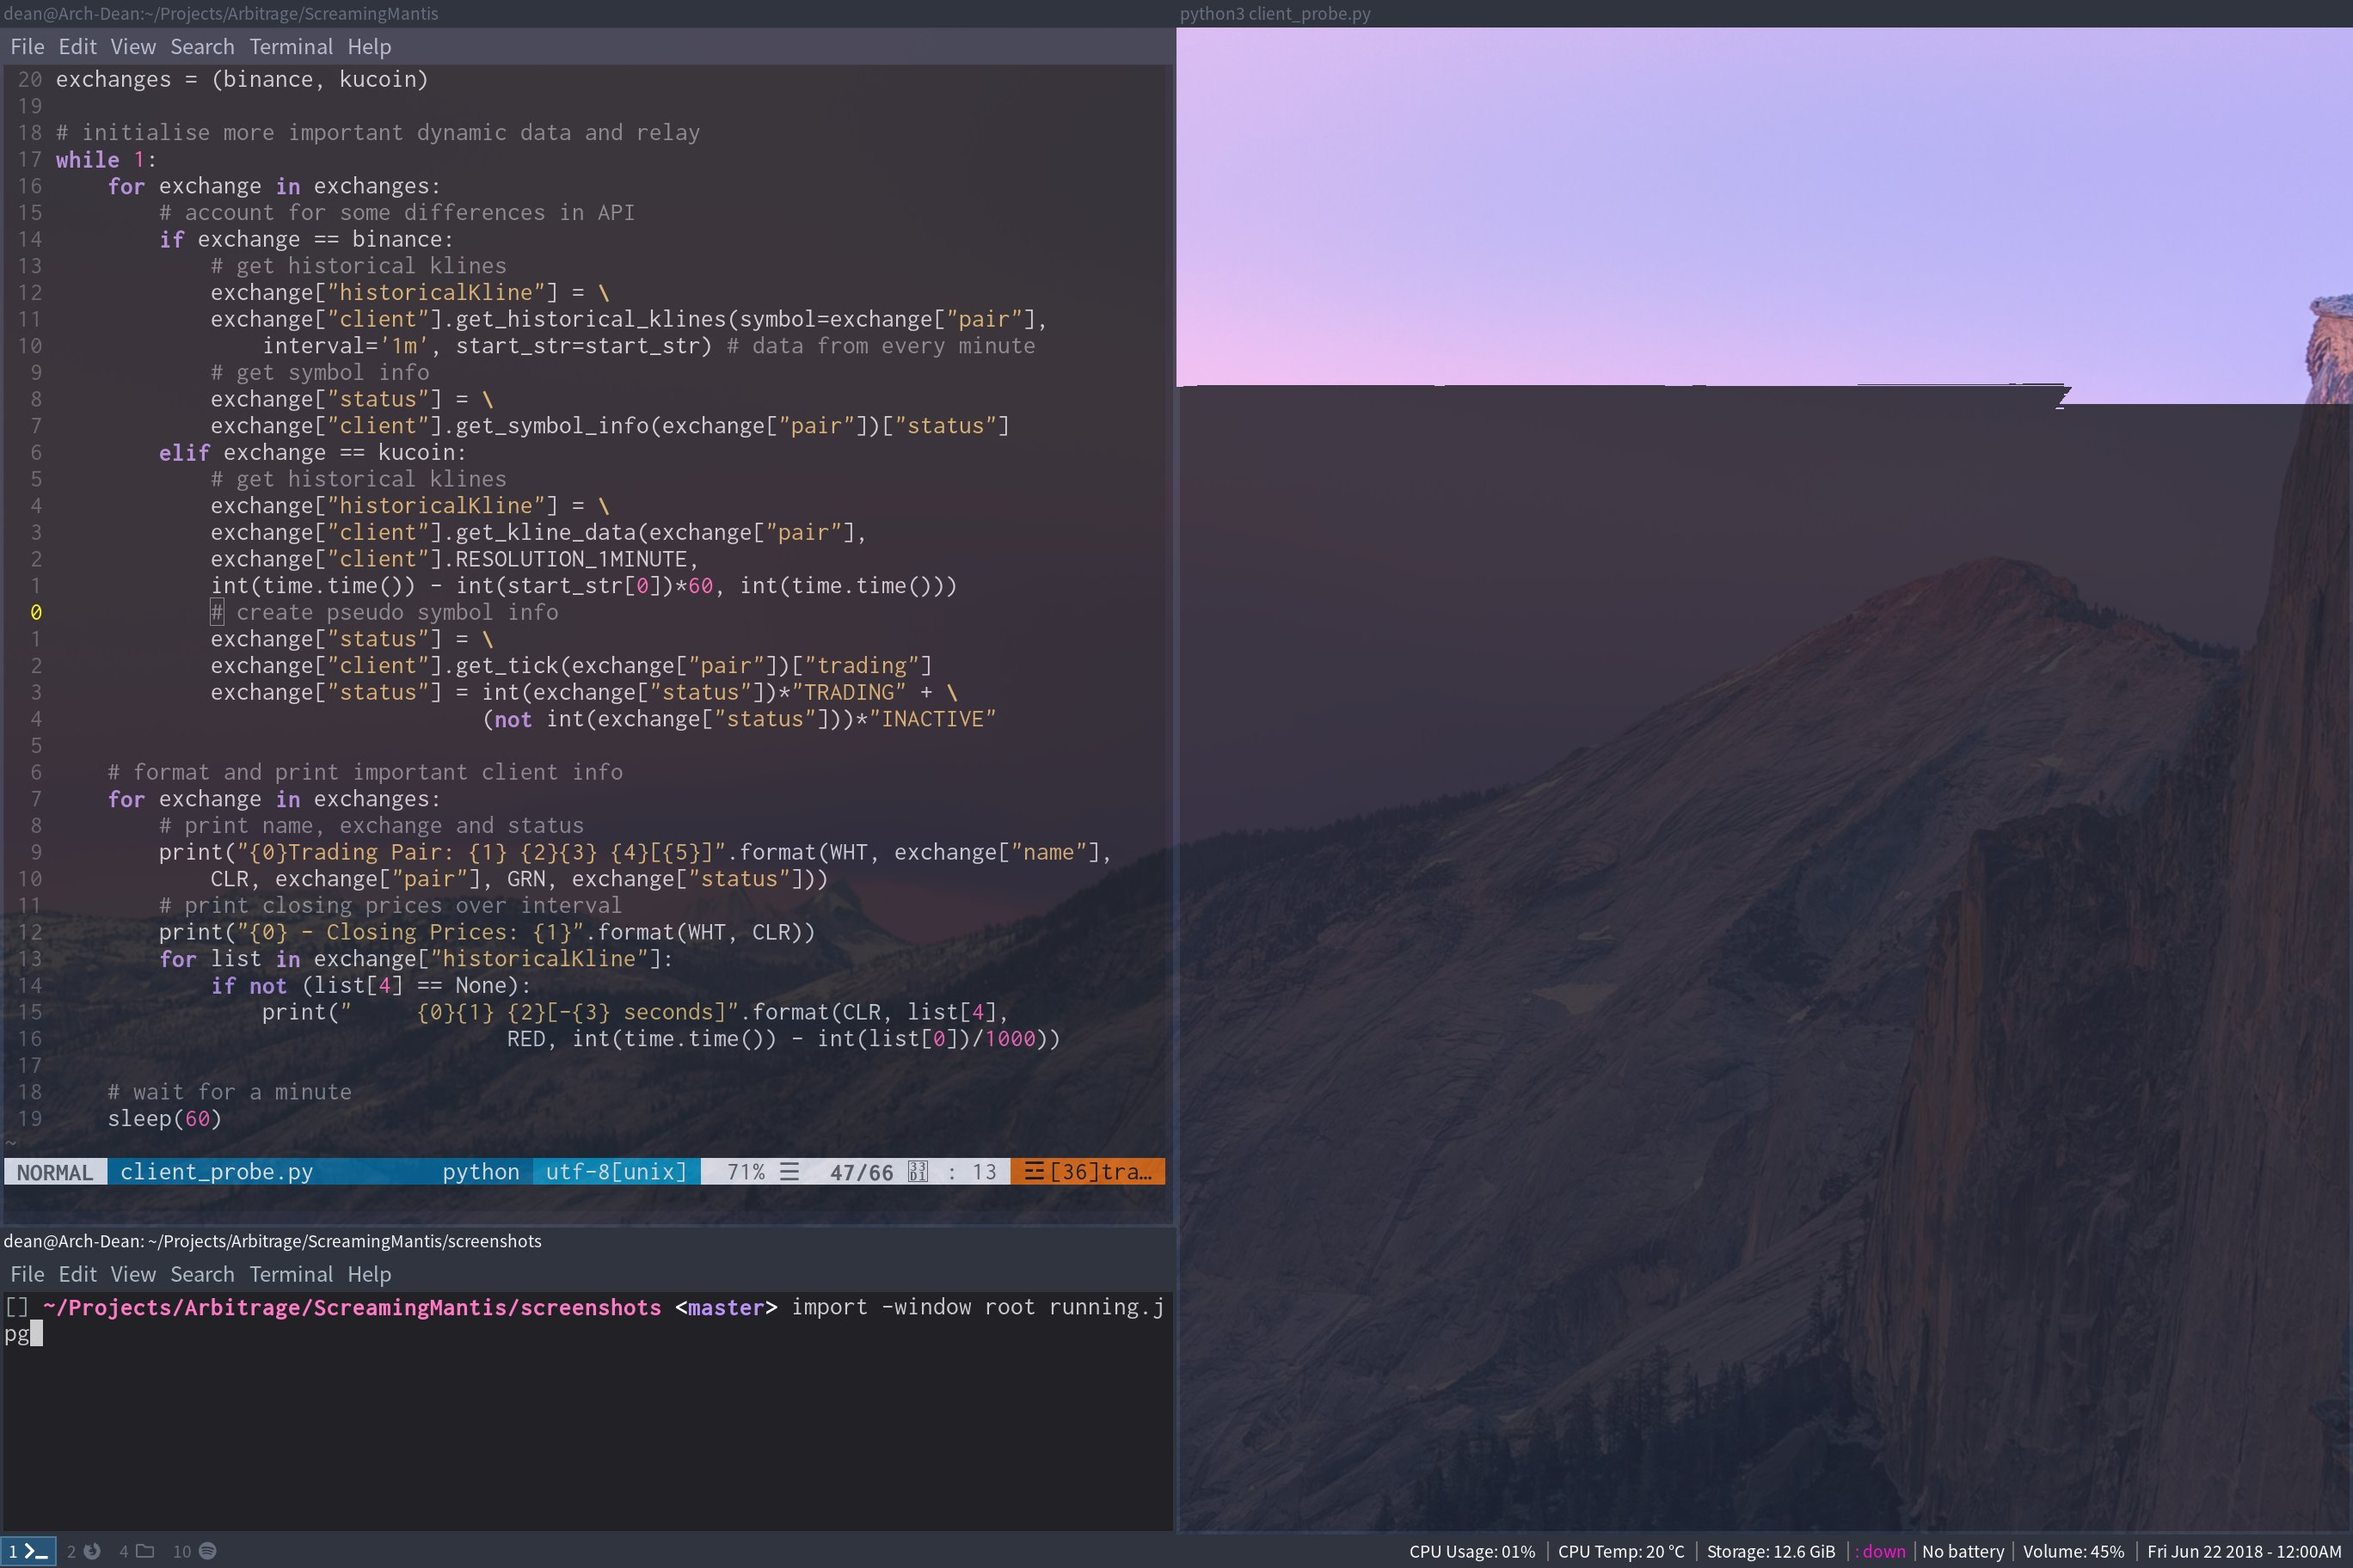
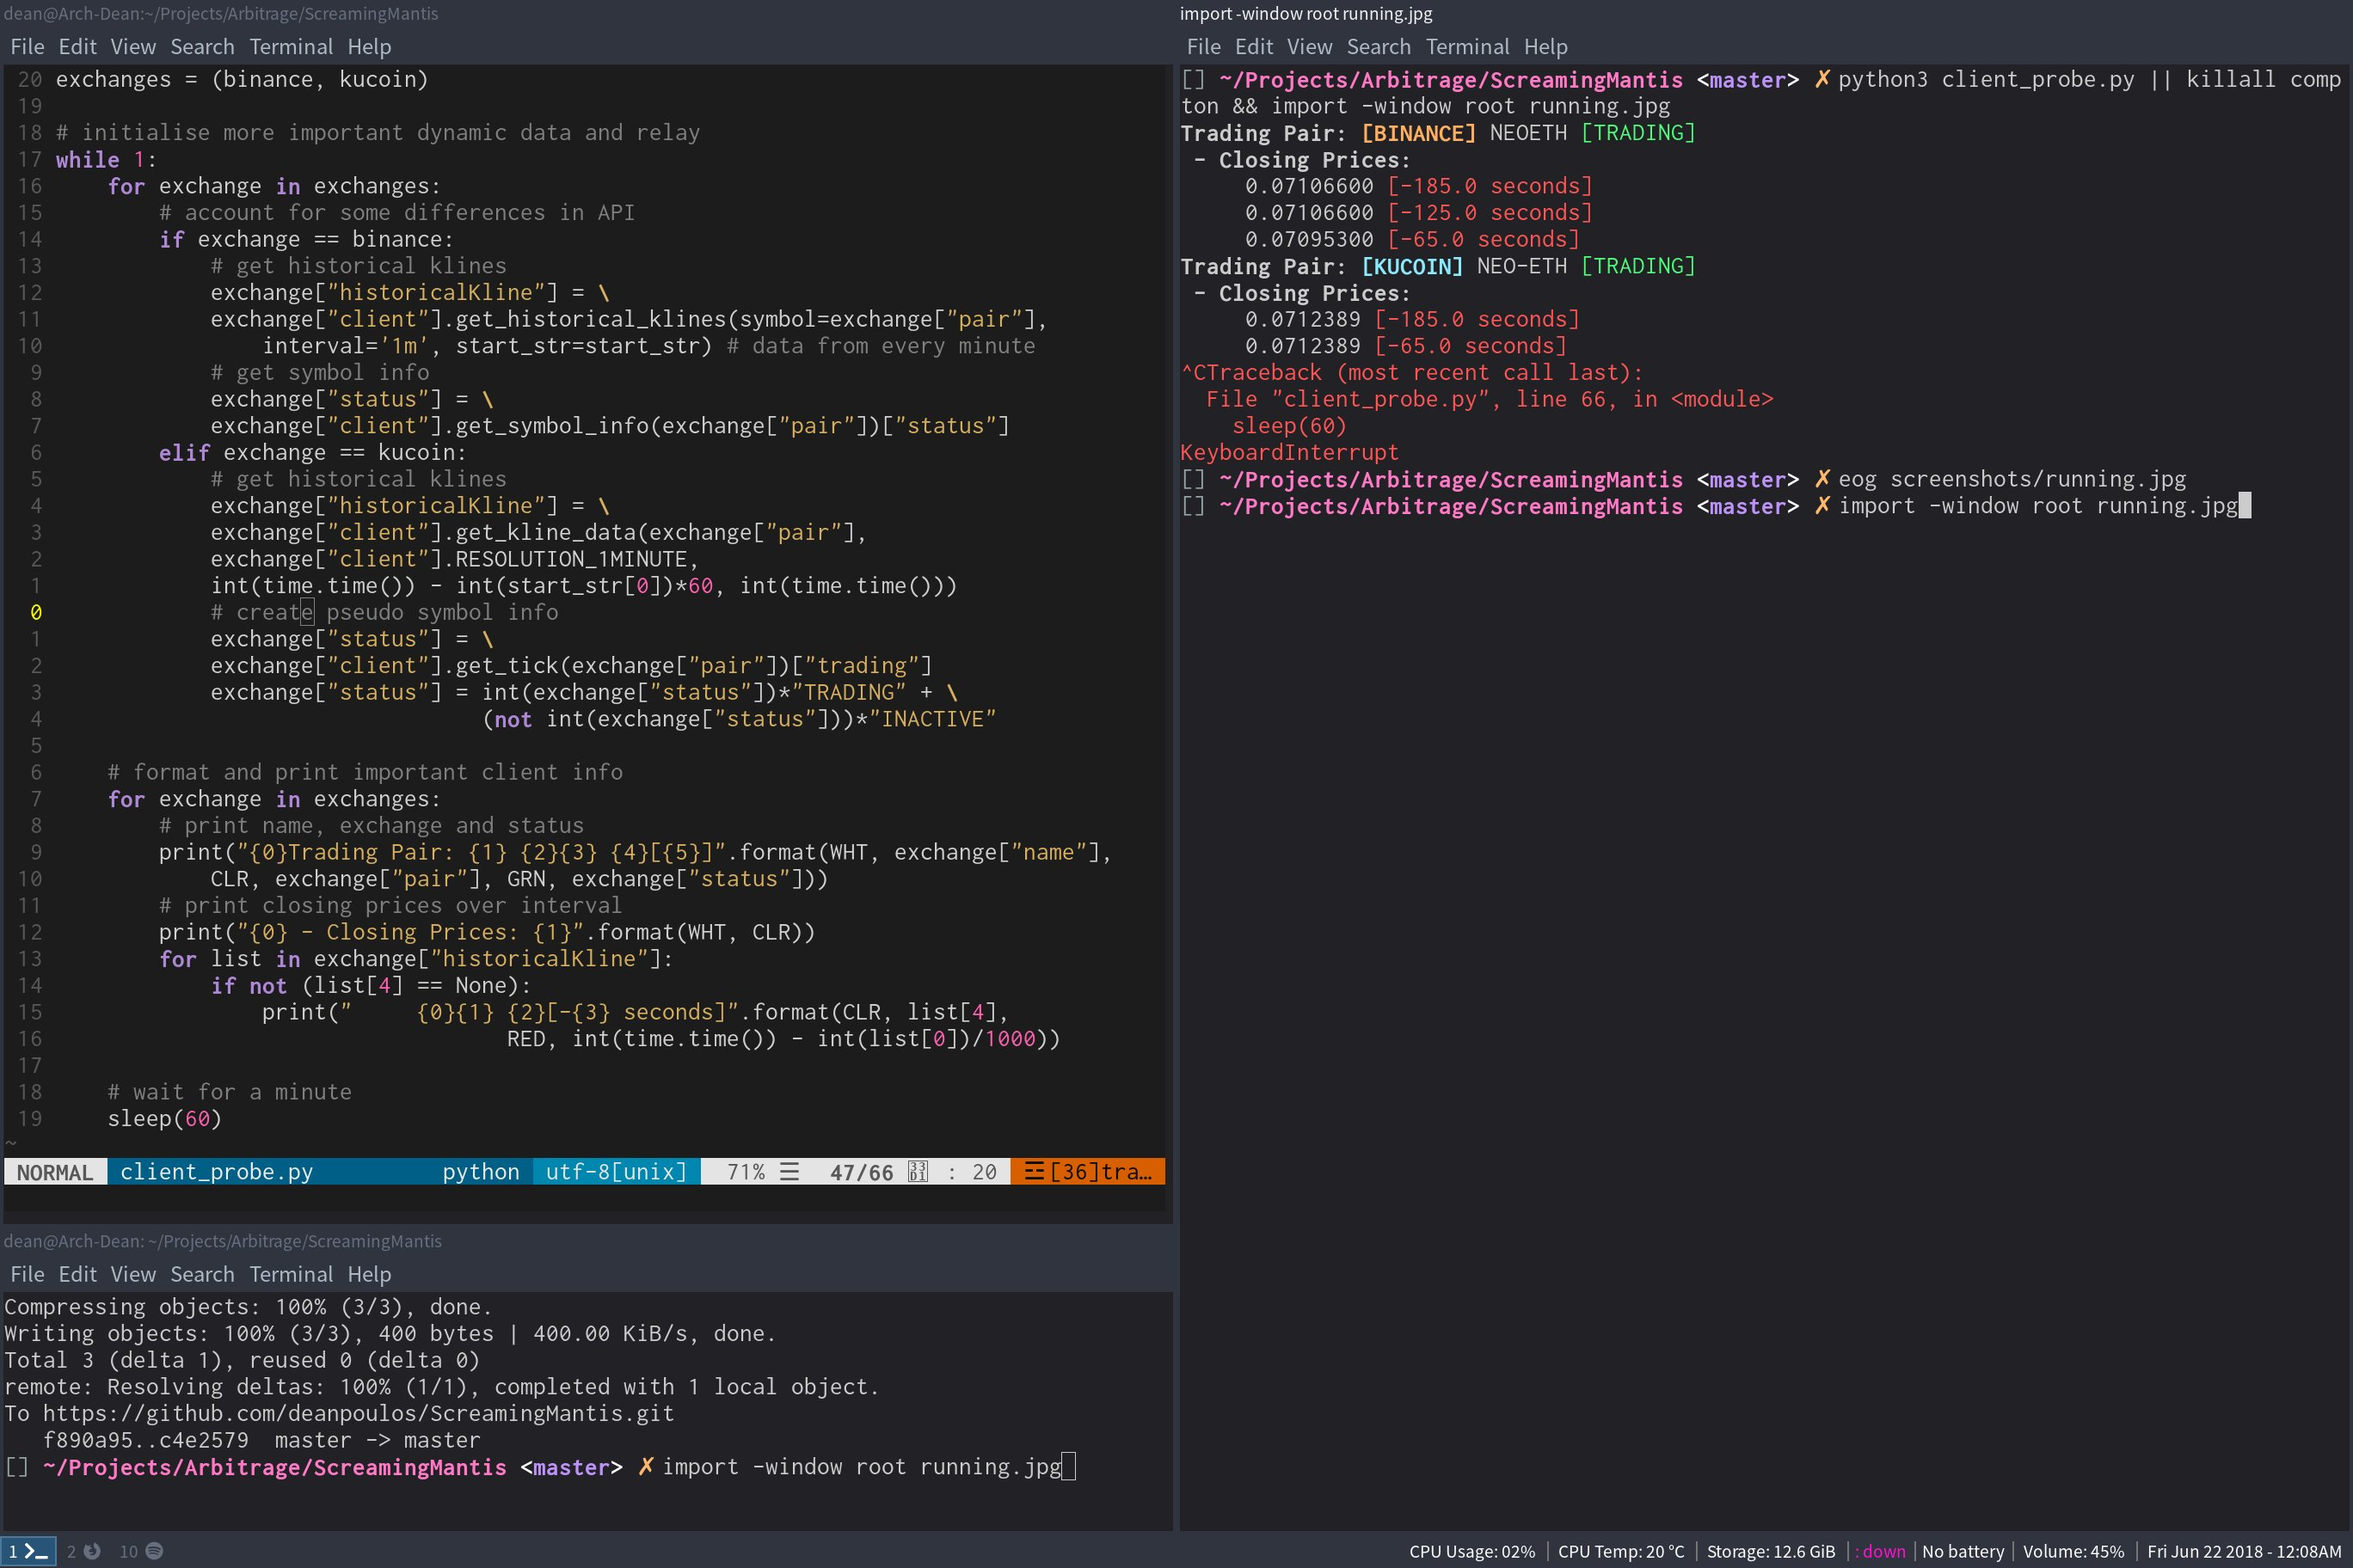
fixed screenshot

diff --git a/README.md b/README.md
@@ -1,3 +1,2 @@
 # ScreamingMantis
-![running](https://user-images.githubusercontent.com/38335668/41723884-9f2353e4-75af-11e8-8260-bdef533a261a.jpg)
-
+![running](https://user-images.githubusercontent.com/38335668/41724264-8617eada-75b0-11e8-8a47-4fcc5dfd3a13.jpg)
